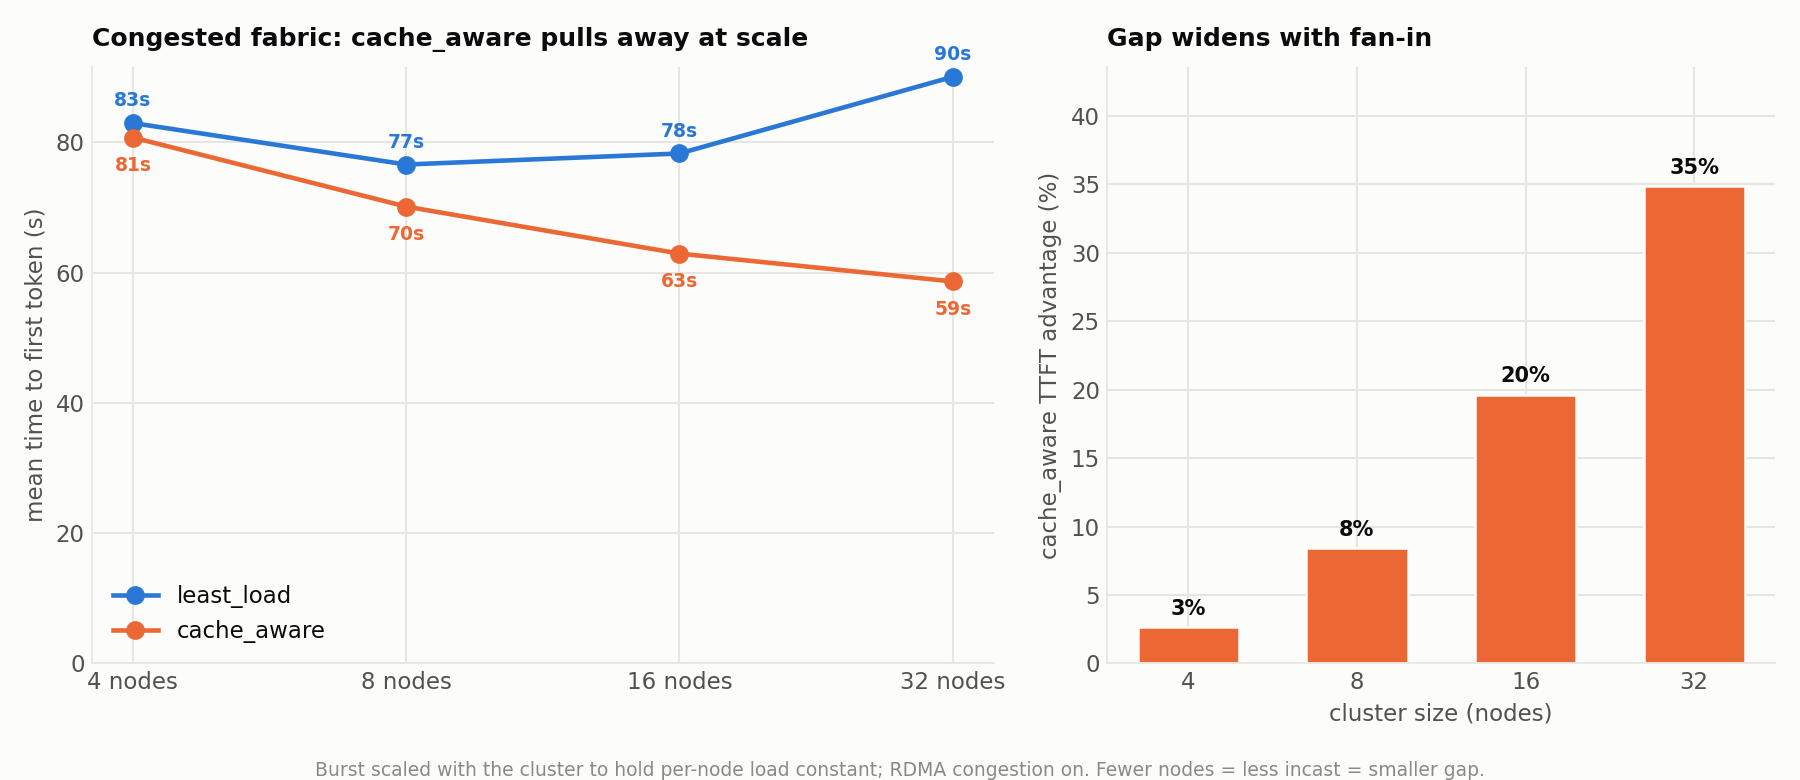
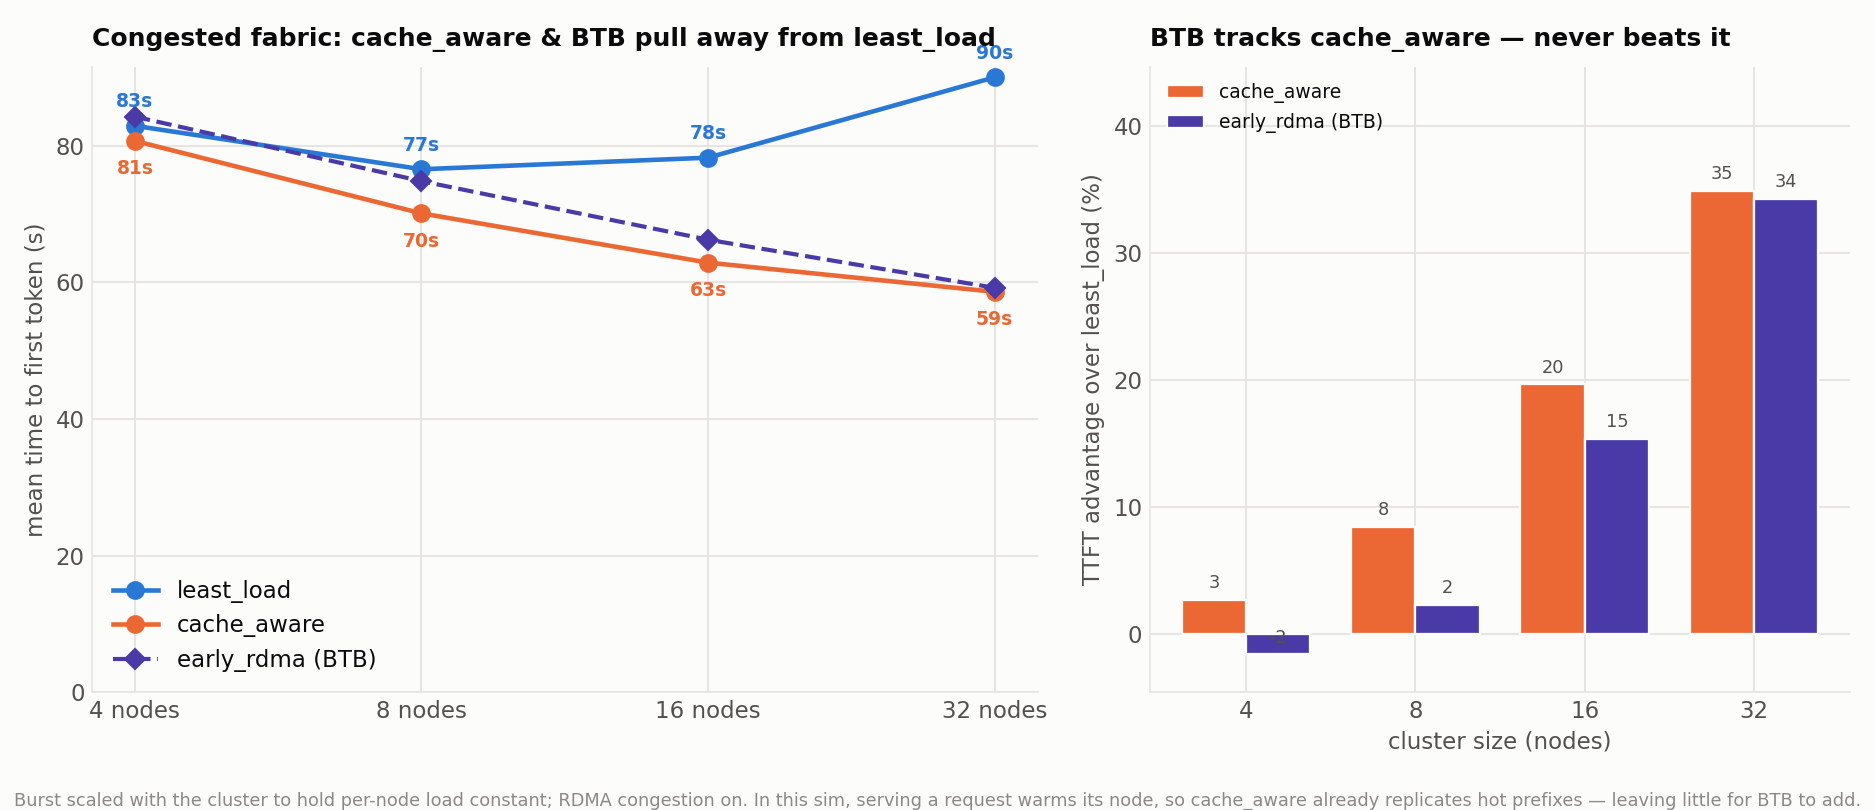
Add BTB (early_rdma) to the burst head-to-head under congestion
Port early_rdma to inference-sim as a policy (btb_policy.py, monkeypatched in so
the shared sim is untouched): detect a sustained shared-prefix burst, RDMA-copy
the prefix onto the least-busy replicas ahead of demand, route active-prefix
requests to the least-loaded warm replica, cache_aware otherwise. Warm copies
are subject to the same RDMA_CONGESTION model.

Finding: under the congested scaling sweep BTB tracks cache_aware but never beats
it (-2% / 2% / 15% / 34% vs least_load at 4/8/16/32 nodes; both far ahead of
least_load). In this sim serving a request warms its node, so hot prefixes
replicate reactively and cache_aware already balances across replicas -- leaving
little for BTB's prewarming to add once first-touch is amortized. PAPER.md's
positive BTB result comes from a prefill-dominated regime (huge prefix, 1 output
token) with no fabric congestion.

scaling.png now shows the three-way comparison; README finding 7 explains it.

Claude-Session: https://claude.ai/code/session_01JBkUTvqMb1XVKK2TV47bKm

diff --git a/experiments/burst-least-load/btb_policy.py b/experiments/burst-least-load/btb_policy.py
@@ -1,0 +1,149 @@
+"""BTB `early_rdma` as an inference-sim routing policy (mechanistic port).
+
+This reimplements the core mechanism described in ../results/PAPER.md so it can
+run head-to-head against least_load / cache_aware inside inference-sim, under the
+same RDMA congestion model. It is NOT the trained utility gate -- burst
+detection here is a simple threshold rule, not the learned gate -- but the
+placement + routing mechanics match:
+
+  1. Detect a sustained shared-prefix burst (a prefix seen >= THRESHOLD times in
+     a WINDOW marks it "active" for a HORIZON).
+  2. Once active, and once a source copy exists in some node's HBM, RDMA-copy the
+     prefix's KV onto the least-busy replicas until it has WARM_COPIES HBM copies.
+  3. Route active-prefix requests to the least-loaded *warm* replica; fall back to
+     cache_aware otherwise.
+
+The warm copies pay RDMA cost on the target's timeline and are subject to the
+same fabric contention as ordinary reuse (cfg.RDMA_CONGESTION): a copy to an
+idle target is cheap, which is the point -- warming rides the quiet pre-burst
+fabric instead of the congested spike.
+
+register() installs it into the sim's POLICIES registry (the same dict object
+simulate.py imported), so `run("early_rdma", ...)` works without touching the sim.
+"""
+import random
+
+
+def _load(node):
+    return len(node.running) + len(node.waiting)
+
+
+def _resident(node, blocks):
+    """True if the whole block run is resident in this node's HBM."""
+    if not blocks:
+        return False
+    hbm_n, _ = node.match(blocks)
+    return hbm_n >= len(blocks)
+
+
+def _cache_aware(req, nodes, cfg, now):
+    """Identical to router.CacheAware: imbalance-fallback, else longest local
+    prefix then lightest load, ties broken randomly."""
+    loads = [_load(nd) for nd in nodes]
+    if max(loads) > cfg.IMBALANCE_ABS and max(loads) > cfg.IMBALANCE_REL * min(loads):
+        return _pick(nodes, lambda nd: _load(nd))
+    return _pick(nodes, lambda nd: (-sum(nd.match(req.blocks)), _load(nd)))
+
+
+def _pick(nodes, key):
+    best = min(key(nd) for nd in nodes)
+    return random.choice([nd for nd in nodes if key(nd) == best])
+
+
+class PendingWarm:
+    __slots__ = ("ready", "node", "blocks", "key")
+
+    def __init__(self, ready, node, blocks, key):
+        self.ready, self.node, self.blocks, self.key = ready, node, blocks, key
+
+
+class EarlyRdma:
+    def __init__(self, cfg):
+        self.cfg = cfg
+        self.key_blocks = int(getattr(cfg, "BTB_KEY_BLOCKS", 4))
+        self.warm_blocks = int(getattr(cfg, "BTB_WARM_BLOCKS", 24))
+        self.threshold = int(getattr(cfg, "BTB_THRESHOLD", 4))
+        self.window = float(getattr(cfg, "BTB_WINDOW_S", 2.0))
+        self.horizon = float(getattr(cfg, "BTB_HORIZON_S", 120.0))
+        self.copies = int(getattr(cfg, "BTB_WARM_COPIES", 4))
+        self.hist = {}          # key -> list of recent arrival times
+        self.active = {}        # key -> time the prefix stops being "active"
+        self.pending = []       # scheduled warm copies not yet resident
+        self.planned = set()    # (key, node.name) copies in flight, to dedupe
+        self.stats = {"warm_count": 0, "warm_bytes": 0.0, "warm_busy_s": 0.0}
+
+    # --- burst detection ---
+    def _key(self, req):
+        k = tuple(req.blocks[: self.key_blocks])
+        return k if len(k) == self.key_blocks else None
+
+    def _detect(self, key, now):
+        h = self.hist.setdefault(key, [])
+        h.append(now)
+        cut = now - self.window
+        while h and h[0] < cut:
+            h.pop(0)
+        if len(h) >= self.threshold:
+            self.active[key] = now + self.horizon
+
+    # --- warm bookkeeping ---
+    def _apply_ready(self, now):
+        keep = []
+        for w in self.pending:
+            if w.ready <= now + 1e-12:
+                w.node.insert(w.blocks)          # prefix now resident in target HBM
+                self.planned.discard((w.key, w.node.name))
+            else:
+                keep.append(w)
+        self.pending = keep
+
+    def _schedule(self, req, nodes, now, key):
+        blocks = req.blocks[: self.warm_blocks]
+        if not blocks:
+            return
+        # need a source copy in some node's HBM before we can RDMA it anywhere
+        if not any(_resident(nd, blocks) for nd in nodes):
+            return
+        have = sum(1 for nd in nodes if _resident(nd, blocks)) \
+            + sum(1 for (k, _) in self.planned if k == key)
+        need = self.copies - have
+        if need <= 0:
+            return
+        # warm the least-busy replicas that don't have it and aren't already queued
+        targets = sorted((nd for nd in nodes
+                          if not _resident(nd, blocks)
+                          and (key, nd.name) not in self.planned),
+                         key=_load)
+        nbytes = len(blocks) * nodes[0].block_bytes
+        for nd in targets[:need]:
+            dur = nbytes / nd.tier_bw["rdma"]
+            if getattr(self.cfg, "RDMA_CONGESTION", False):
+                dur *= min(len(nodes), max(1, len(nd.waiting)))
+            start = max(now, nd.now)
+            nd.now = start + dur                 # copy occupies the target
+            nd.busy += dur
+            self.pending.append(PendingWarm(start + dur, nd, blocks, key))
+            self.planned.add((key, nd.name))
+            self.stats["warm_count"] += 1
+            self.stats["warm_bytes"] += nbytes
+            self.stats["warm_busy_s"] += dur
+
+    # --- routing ---
+    def route(self, req, nodes, now):
+        self._apply_ready(now)
+        key = self._key(req)
+        if key is not None:
+            self._detect(key, now)
+            if self.active.get(key, -1.0) >= now:
+                self._schedule(req, nodes, now, key)
+                blocks = req.blocks[: self.warm_blocks]
+                warm = [nd for nd in nodes if _resident(nd, blocks)]
+                if warm:
+                    return _pick(warm, _load)   # least-loaded warm replica
+        return _cache_aware(req, nodes, self.cfg, now)
+
+
+def register():
+    """Install early_rdma into the sim's shared POLICIES dict."""
+    import router
+    router.POLICIES["early_rdma"] = EarlyRdma

diff --git a/experiments/burst-least-load/make_charts.py b/experiments/burst-least-load/make_charts.py
@@ -229,19 +229,24 @@ def chart_scaling(data):
         return
     nodes = [r["nodes"] for r in rows]
     x = np.arange(len(nodes))
-    fig, (ax, ax2) = plt.subplots(1, 2, figsize=(12, 5.2),
+    fig, (ax, ax2) = plt.subplots(1, 2, figsize=(12.5, 5.4),
                                   gridspec_kw={"width_ratios": [1.35, 1]})
 
     ll = [r["ll_ttft"] for r in rows]
     ca = [r["ca_ttft"] for r in rows]
+    btb = [r.get("btb_ttft") for r in rows]
     ax.plot(x, ll, "-o", color=POLICY_COLOR["least_load"], lw=2.2, ms=8,
             label="least_load")
     ax.plot(x, ca, "-o", color=POLICY_COLOR["cache_aware"], lw=2.2, ms=8,
             label="cache_aware")
-    for xi, a, b in zip(x, ll, ca):
+    if all(v is not None for v in btb):
+        ax.plot(x, btb, "--D", color=POLICY_COLOR["random"], lw=2, ms=7,
+                label="early_rdma (BTB)")
+    for xi, a in zip(x, ll):
         ax.annotate(f"{a:.0f}s", (xi, a), textcoords="offset points",
-                    xytext=(0, 8), ha="center", fontsize=9,
+                    xytext=(0, 9), ha="center", fontsize=9,
                     color=POLICY_COLOR["least_load"], fontweight="bold")
+    for xi, b in zip(x, ca):
         ax.annotate(f"{b:.0f}s", (xi, b), textcoords="offset points",
                     xytext=(0, -16), ha="center", fontsize=9,
                     color=POLICY_COLOR["cache_aware"], fontweight="bold")
@@ -250,28 +255,38 @@ def chart_scaling(data):
     ax.set_xticklabels([f"{n} nodes" for n in nodes])
     ax.set_ylabel("mean time to first token (s)")
     ax.set_ylim(bottom=0)
-    ax.set_title("Congested fabric: cache_aware pulls away at scale",
+    ax.set_title("Congested fabric: cache_aware & BTB pull away from least_load",
                  color=INK, fontsize=12, fontweight="bold", loc="left", pad=10)
     ax.legend(frameon=False, loc="lower left")
 
-    gap = [r["gap_pct"] for r in rows]
-    bars = ax2.bar(x, gap, 0.6, color=POLICY_COLOR["cache_aware"],
-                   edgecolor=SURFACE, linewidth=1.2)
-    for xi, g in zip(x, gap):
-        ax2.text(xi, g + 0.6, f"{g:.0f}%", ha="center", va="bottom",
-                 fontsize=10, color=INK, fontweight="bold")
+    # right panel: TTFT advantage over least_load, cache_aware vs BTB
+    w = 0.38
+    ca_gap = [r["gap_pct"] for r in rows]
+    btb_gap = [r.get("btb_gap_pct", 0) for r in rows]
+    ax2.bar(x - w / 2, ca_gap, w, color=POLICY_COLOR["cache_aware"],
+            edgecolor=SURFACE, linewidth=1.1, label="cache_aware")
+    ax2.bar(x + w / 2, btb_gap, w, color=POLICY_COLOR["random"],
+            edgecolor=SURFACE, linewidth=1.1, label="early_rdma (BTB)")
+    for xi, g in zip(x, ca_gap):
+        ax2.text(xi - w / 2, g + 0.6, f"{g:.0f}", ha="center", va="bottom",
+                 fontsize=8.5, color=INK2)
+    for xi, g in zip(x, btb_gap):
+        ax2.text(xi + w / 2, g + 0.6, f"{g:.0f}", ha="center", va="bottom",
+                 fontsize=8.5, color=INK2)
     style(ax2)
     ax2.set_xticks(x)
     ax2.set_xticklabels([str(n) for n in nodes])
     ax2.set_xlabel("cluster size (nodes)")
-    ax2.set_ylabel("cache_aware TTFT advantage (%)")
-    ax2.set_ylim(0, max(gap) * 1.25)
-    ax2.set_title("Gap widens with fan-in", color=INK, fontsize=12,
-                  fontweight="bold", loc="left", pad=10)
+    ax2.set_ylabel("TTFT advantage over least_load (%)")
+    ax2.set_ylim(min(0, min(btb_gap) - 3), max(ca_gap) * 1.28)
+    ax2.set_title("BTB tracks cache_aware — never beats it", color=INK,
+                  fontsize=12, fontweight="bold", loc="left", pad=10)
+    ax2.legend(frameon=False, loc="upper left", fontsize=9)
     fig.text(0.5, 0.005,
-             "Burst scaled with the cluster to hold per-node load constant; "
-             "RDMA congestion on. Fewer nodes = less incast = smaller gap.",
-             color=MUTED, fontsize=9, ha="center")
+             "Burst scaled with the cluster to hold per-node load constant; RDMA "
+             "congestion on. In this sim, serving a request warms its node, so "
+             "cache_aware already replicates hot prefixes — leaving little for BTB to add.",
+             color=MUTED, fontsize=8.5, ha="center")
     fig.tight_layout(rect=(0, 0.04, 1, 1))
     fig.savefig(os.path.join(CHARTS, "scaling.png"), dpi=150)
     plt.close(fig)

diff --git a/experiments/burst-least-load/run_burst.py b/experiments/burst-least-load/run_burst.py
@@ -41,7 +41,30 @@ import config                       # noqa: E402
 from simulate import run            # noqa: E402
 from workload import Request        # noqa: E402
 
+import btb_policy                   # noqa: E402
+btb_policy.register()              # installs "early_rdma" into the sim's POLICIES
+
 HERE = os.path.dirname(os.path.abspath(__file__))
+
+
+def set_btb_knobs(cfg, warm_copies):
+    """BTB early_rdma parameters (see btb_policy). warm_blocks = the shared
+    family prefix; key = its first few blocks; a prefix warms once it is seen
+    >= THRESHOLD times in WINDOW."""
+    cfg.BTB_WARM_BLOCKS = PREFIX_BLOCKS
+    cfg.BTB_KEY_BLOCKS = 4
+    cfg.BTB_THRESHOLD = 4
+    cfg.BTB_WINDOW_S = 2.0
+    cfg.BTB_HORIZON_S = 120.0
+    cfg.BTB_WARM_COPIES = warm_copies
+
+
+def run_seeded(policy, requests, cfg):
+    """The sim's router breaks routing ties with the global RNG, which the sim
+    never seeds. Seed it here so results are reproducible and every policy sees
+    the same tie-break stream (a fair A/B)."""
+    random.seed(SEED)
+    return run(policy, requests, cfg)
 
 
 def run_seeded(policy, requests, cfg):
@@ -262,17 +285,20 @@ def main():
 
 
 def scaling_sweep(base_cluster):
-    """Does RDMA congestion bite harder on bigger clusters? Scale the cluster
-    (and the burst with it, to hold per-node load ~constant) and measure the
-    least_load-vs-cache_aware TTFT gap with the fabric contending. Incast fan-in
-    grows with node count, so the gap should widen."""
+    """Head-to-head under a congested fabric across cluster sizes: least_load vs
+    cache_aware vs early_rdma (BTB). Scale the burst with the cluster to hold
+    per-node load ~constant. Incast fan-in grows with node count, so the routing
+    that avoids cross-node transfers (cache_aware / BTB) should pull away from
+    least_load as the cluster grows."""
     global BURST_SIZE
     spec = base_cluster[0][1]
     gpus = base_cluster[0][2]
     saved = BURST_SIZE
     per_node = saved // len(base_cluster)
-    print("=== scaling sweep: RDMA congestion vs cluster size (congested fabric) ===")
-    print(f"{'nodes':>6} {'burst':>7} {'LL ttft':>8} {'CA ttft':>8} {'CA gap':>7}")
+    print("=== scaling sweep: least_load vs cache_aware vs early_rdma "
+          "(congested fabric) ===")
+    print(f"{'nodes':>6} {'burst':>7} {'LL ttft':>8} {'CA ttft':>8} "
+          f"{'BTB ttft':>9} {'CA gap':>7} {'BTB gap':>8}")
     rows = []
     for n_nodes in (4, 8, 16, 32):
         BURST_SIZE = per_node * n_nodes          # hold per-node load constant
@@ -282,14 +308,19 @@ def scaling_sweep(base_cluster):
         cfg.RDMA_CONGESTION = True
         cfg.CLUSTER = [(f"node{i}", spec, gpus) for i in range(n_nodes)]
         cfg.DISK_CACHE = True
+        set_btb_knobs(cfg, warm_copies=4)
         ll = run_seeded("least_load", reqs, cfg)["metrics"]
         ca = run_seeded("cache_aware", reqs, cfg)["metrics"]
-        gap = (ll["mean_ttft"] - ca["mean_ttft"]) / ll["mean_ttft"] * 100
+        btb = run_seeded("early_rdma", reqs, cfg)["metrics"]
+        ca_gap = (ll["mean_ttft"] - ca["mean_ttft"]) / ll["mean_ttft"] * 100
+        btb_gap = (ll["mean_ttft"] - btb["mean_ttft"]) / ll["mean_ttft"] * 100
         rows.append({"nodes": n_nodes, "burst": BURST_SIZE,
                      "ll_ttft": ll["mean_ttft"], "ca_ttft": ca["mean_ttft"],
-                     "gap_pct": gap})
+                     "btb_ttft": btb["mean_ttft"],
+                     "gap_pct": ca_gap, "btb_gap_pct": btb_gap})
         print(f"{n_nodes:>6} {BURST_SIZE:>7} {ll['mean_ttft']:>7.1f}s "
-              f"{ca['mean_ttft']:>7.1f}s {gap:>6.0f}%")
+              f"{ca['mean_ttft']:>7.1f}s {btb['mean_ttft']:>8.1f}s "
+              f"{ca_gap:>6.0f}% {btb_gap:>7.0f}%")
     BURST_SIZE = saved
     print()
     return rows

diff --git a/experiments/burst-least-load/README.md b/experiments/burst-least-load/README.md
@@ -55,10 +55,13 @@ almost the same curve when the cache is shared.
 choice is **even** (TTFT 81 vs 80 s); a contending fabric is a **mild ~3% tax**;
 isolated replicas is where cache_aware clearly wins (**~24%**, 93 vs 122 s).
 
-**`scaling.png`** — Congestion's effect **grows with cluster size**. Holding
-per-node load constant, the cache_aware TTFT advantage under a congested fabric
-widens **3% → 8% → 20% → 35%** across 4 → 8 → 16 → 32 nodes, because RDMA incast
-fan-in scales with node count. Real deployments are hundreds of nodes.
+**`scaling.png`** — The three-way head-to-head under a congested fabric across
+cluster sizes: **least_load vs cache_aware vs early_rdma (BTB)**. Congestion's
+effect grows with cluster size — cache_aware's TTFT advantage over least_load
+widens **3% → 8% → 20% → 35%** (4 → 8 → 16 → 32 nodes) as incast fan-in scales.
+**BTB tracks cache_aware but never beats it** (−2% / 2% / 15% / 34%): on tiny
+clusters its warming overhead is a slight net loss; at scale it converges to
+cache_aware. See finding 7 for why.
 
 **`metrics_by_condition.png`** — Every headline metric (mean & peak queue wait,
 mean TTFT, mean prefix+prefill, max queue depth, throughput) across all four
@@ -106,9 +109,28 @@ touches cache_aware but slows the cache-blind policies.
 
 6. **This is the motivation for predictive KV movement.** The whole gap between
    "routing barely matters" and "cache_aware wins" is the value of getting the
-   right KV onto the right node cheaply — which is exactly what this repo's
-   `early_rdma` policy tries to do *ahead* of the burst (while the fabric is
-   quiet) rather than contending for it reactively during the spike.
+   right KV onto the right node cheaply — which is exactly what `early_rdma` (BTB)
+   tries to do *ahead* of the burst (while the fabric is quiet) rather than
+   contending for it reactively during the spike.
+
+7. **BTB matches cache_aware here but does not beat it — because in this sim
+   reactive caching already replicates hot prefixes.** `early_rdma` (ported to
+   the sim in `btb_policy.py`) detects a sustained shared-prefix burst, RDMA-copies
+   the prefix onto the least-busy replicas ahead of demand, and routes active-prefix
+   requests to the least-loaded warm replica. Under the congested/scaling sweep it
+   tracks cache_aware (−2% / 2% / 15% / 34% vs least_load at 4/8/16/32 nodes) but
+   never overtakes it. Why: the simulator warms a node whenever it *serves* a
+   request (`node.insert`), so a hot prefix naturally replicates across every node
+   that touches it, and cache_aware balances across those replicas for free. BTB's
+   only structural edge is warming a replica *before* its first-touch — real, but
+   small once first-touch is amortized, and offset by warming interference (a warm
+   copy serializes with the target's compute, the sim's own convention for RDMA).
+   BTB's *positive* result in `../results/PAPER.md` comes from a different regime
+   (65,536-token prefixes, 1 output token — prefill-dominated, so first-touch cost
+   dwarfs everything) **and** a harness with no fabric congestion. The honest read:
+   under a strong reactive cache_aware baseline plus a congestion model, BTB's
+   marginal value over cache_aware is small in this simulator — it wins clearly
+   only when first-touch is catastrophic and there is genuine lead time to prewarm.
 
 ### Caveats
 
@@ -123,3 +145,10 @@ touches cache_aware but slows the cache-blind policies.
   in the `isolated` condition the crippled-bandwidth fallback is still visible in
   the prefill/throughput panels rather than the tier mix — so `cache_tier.png`
   is shown for the shared condition only.
+- BTB's warm copy serializes with the target replica's compute clock (the sim's
+  convention for RDMA reuse). Real RDMA GPUDirect DMA overlaps decode more than
+  that, so this **under**-credits BTB; conversely, treating warming as fully free
+  would over-credit it. The mean-field congestion model can't cleanly represent
+  the fabric as a shared resource, so BTB's exact margin over cache_aware is
+  inside the model's error bars — the robust conclusion is only "BTB ≈ cache_aware,
+  both ≫ least_load at scale," not a precise BTB-vs-cache_aware number.